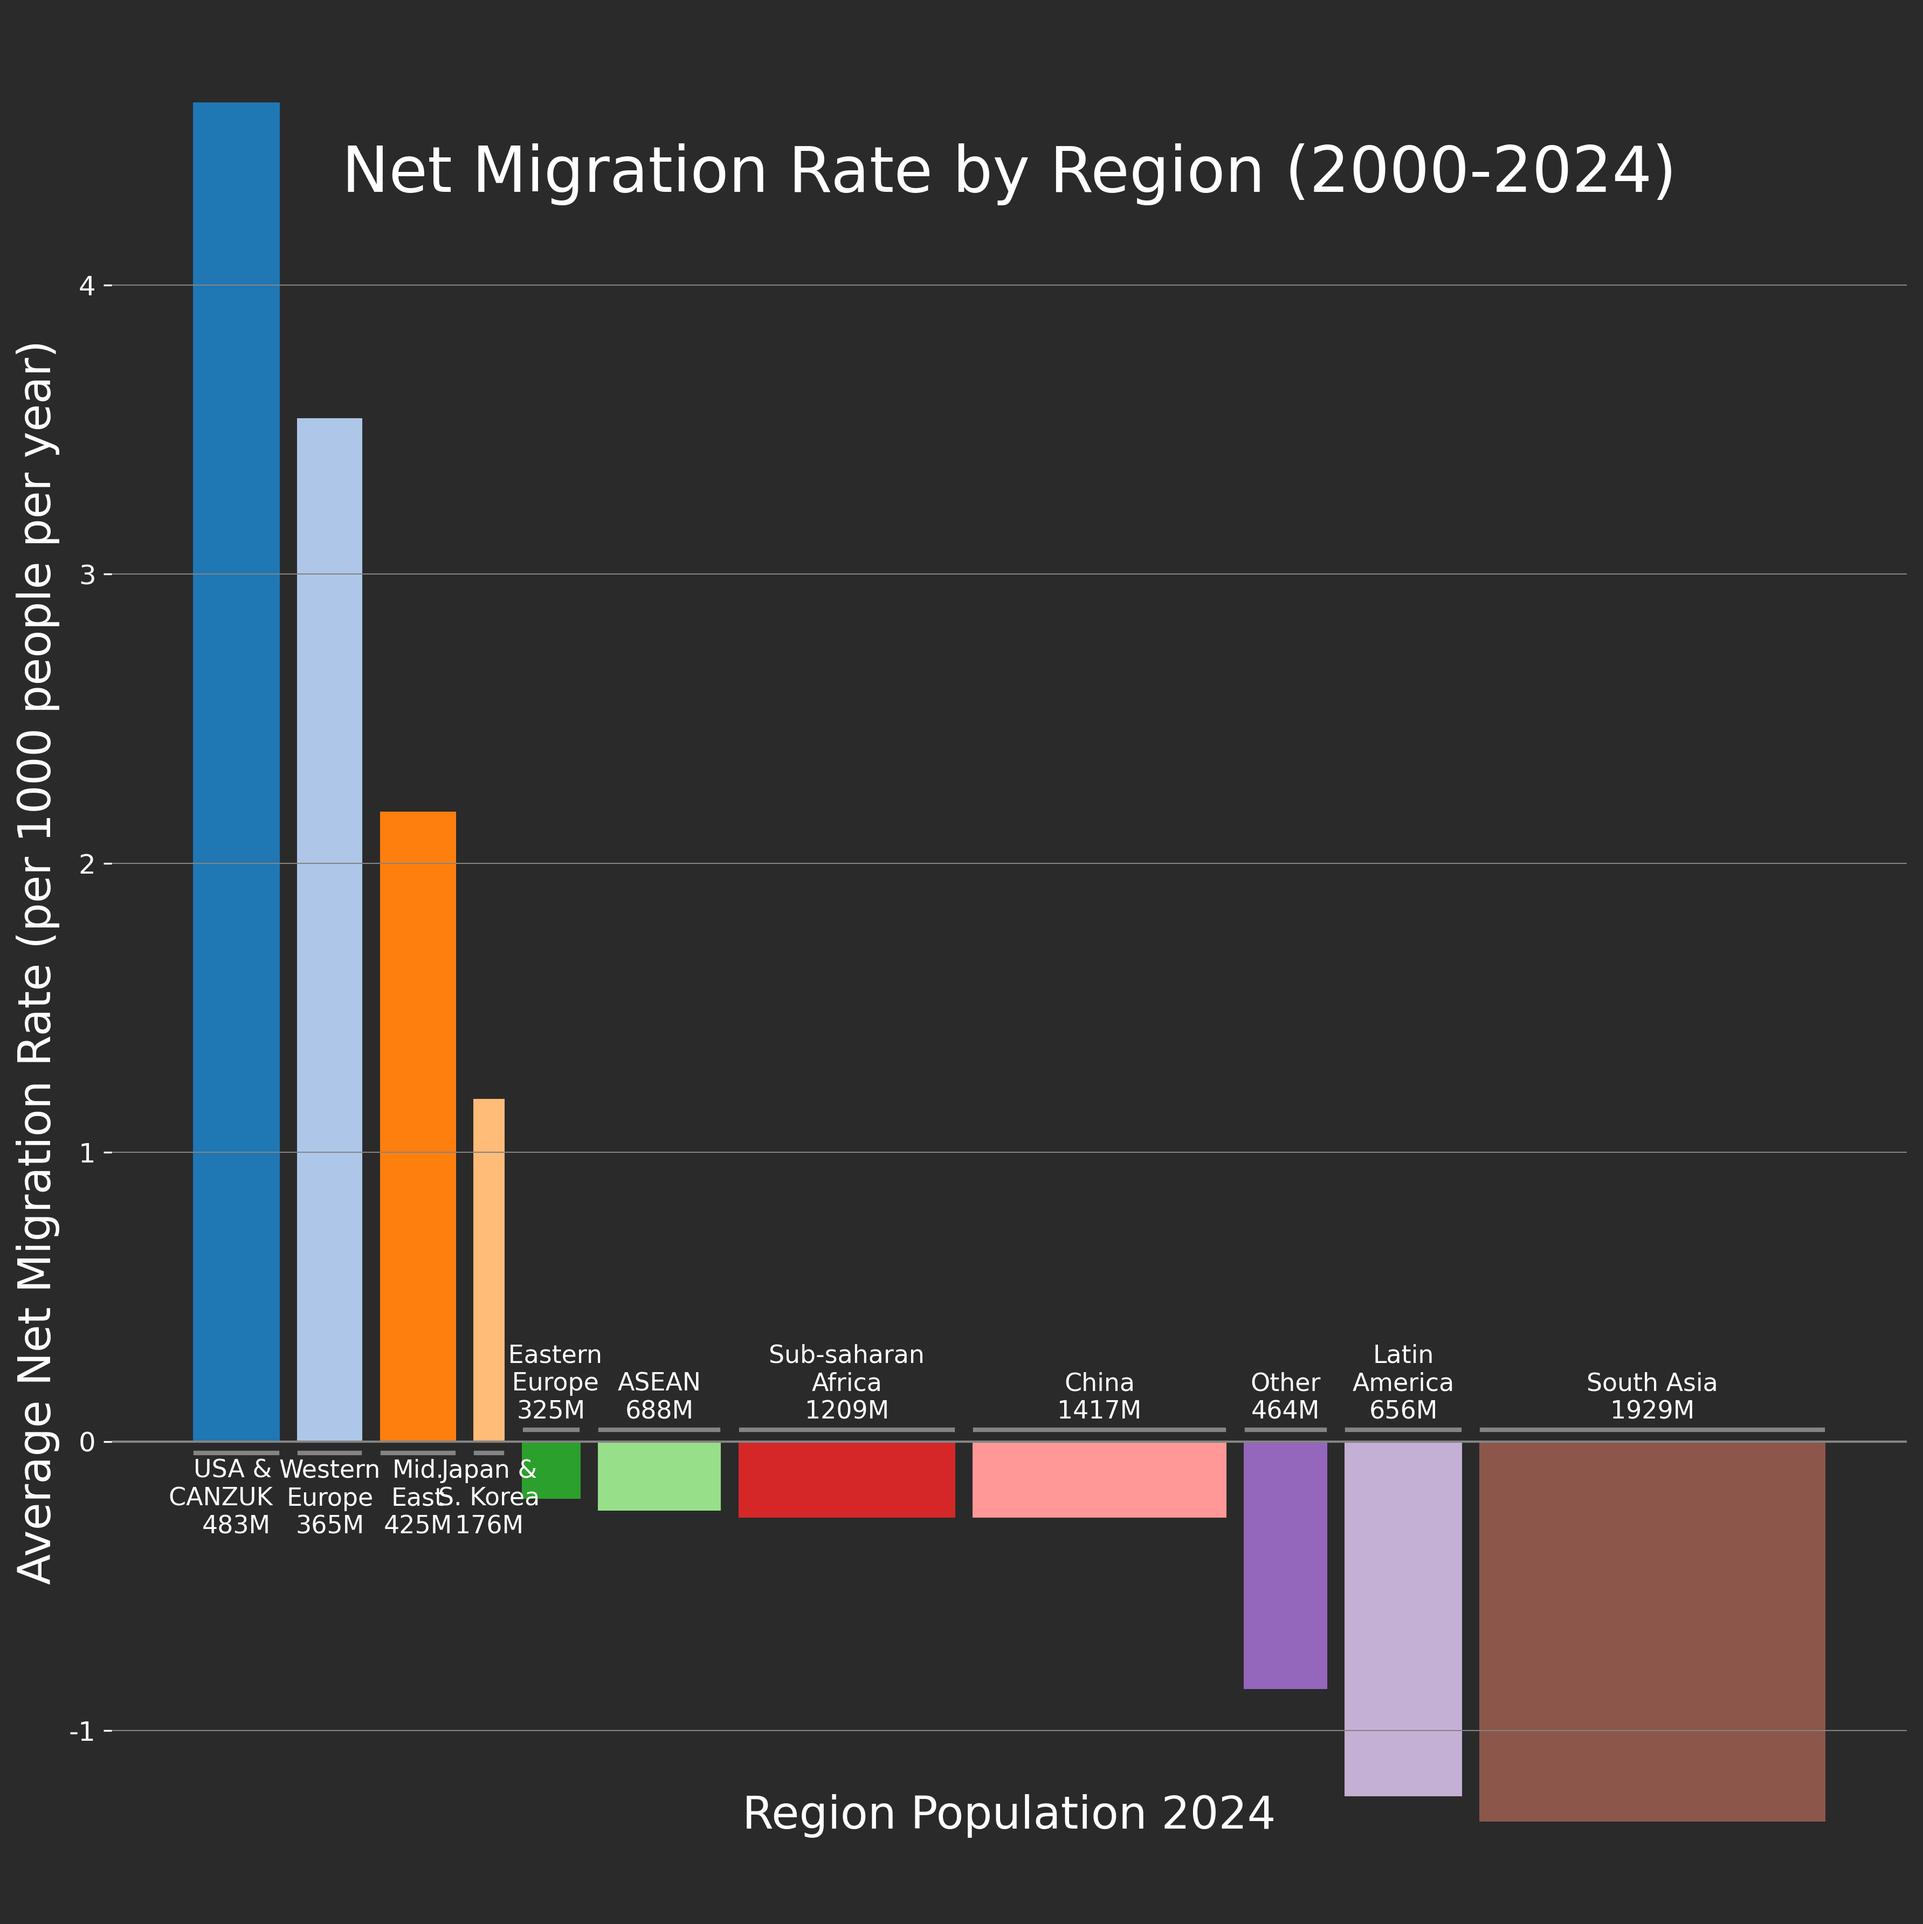
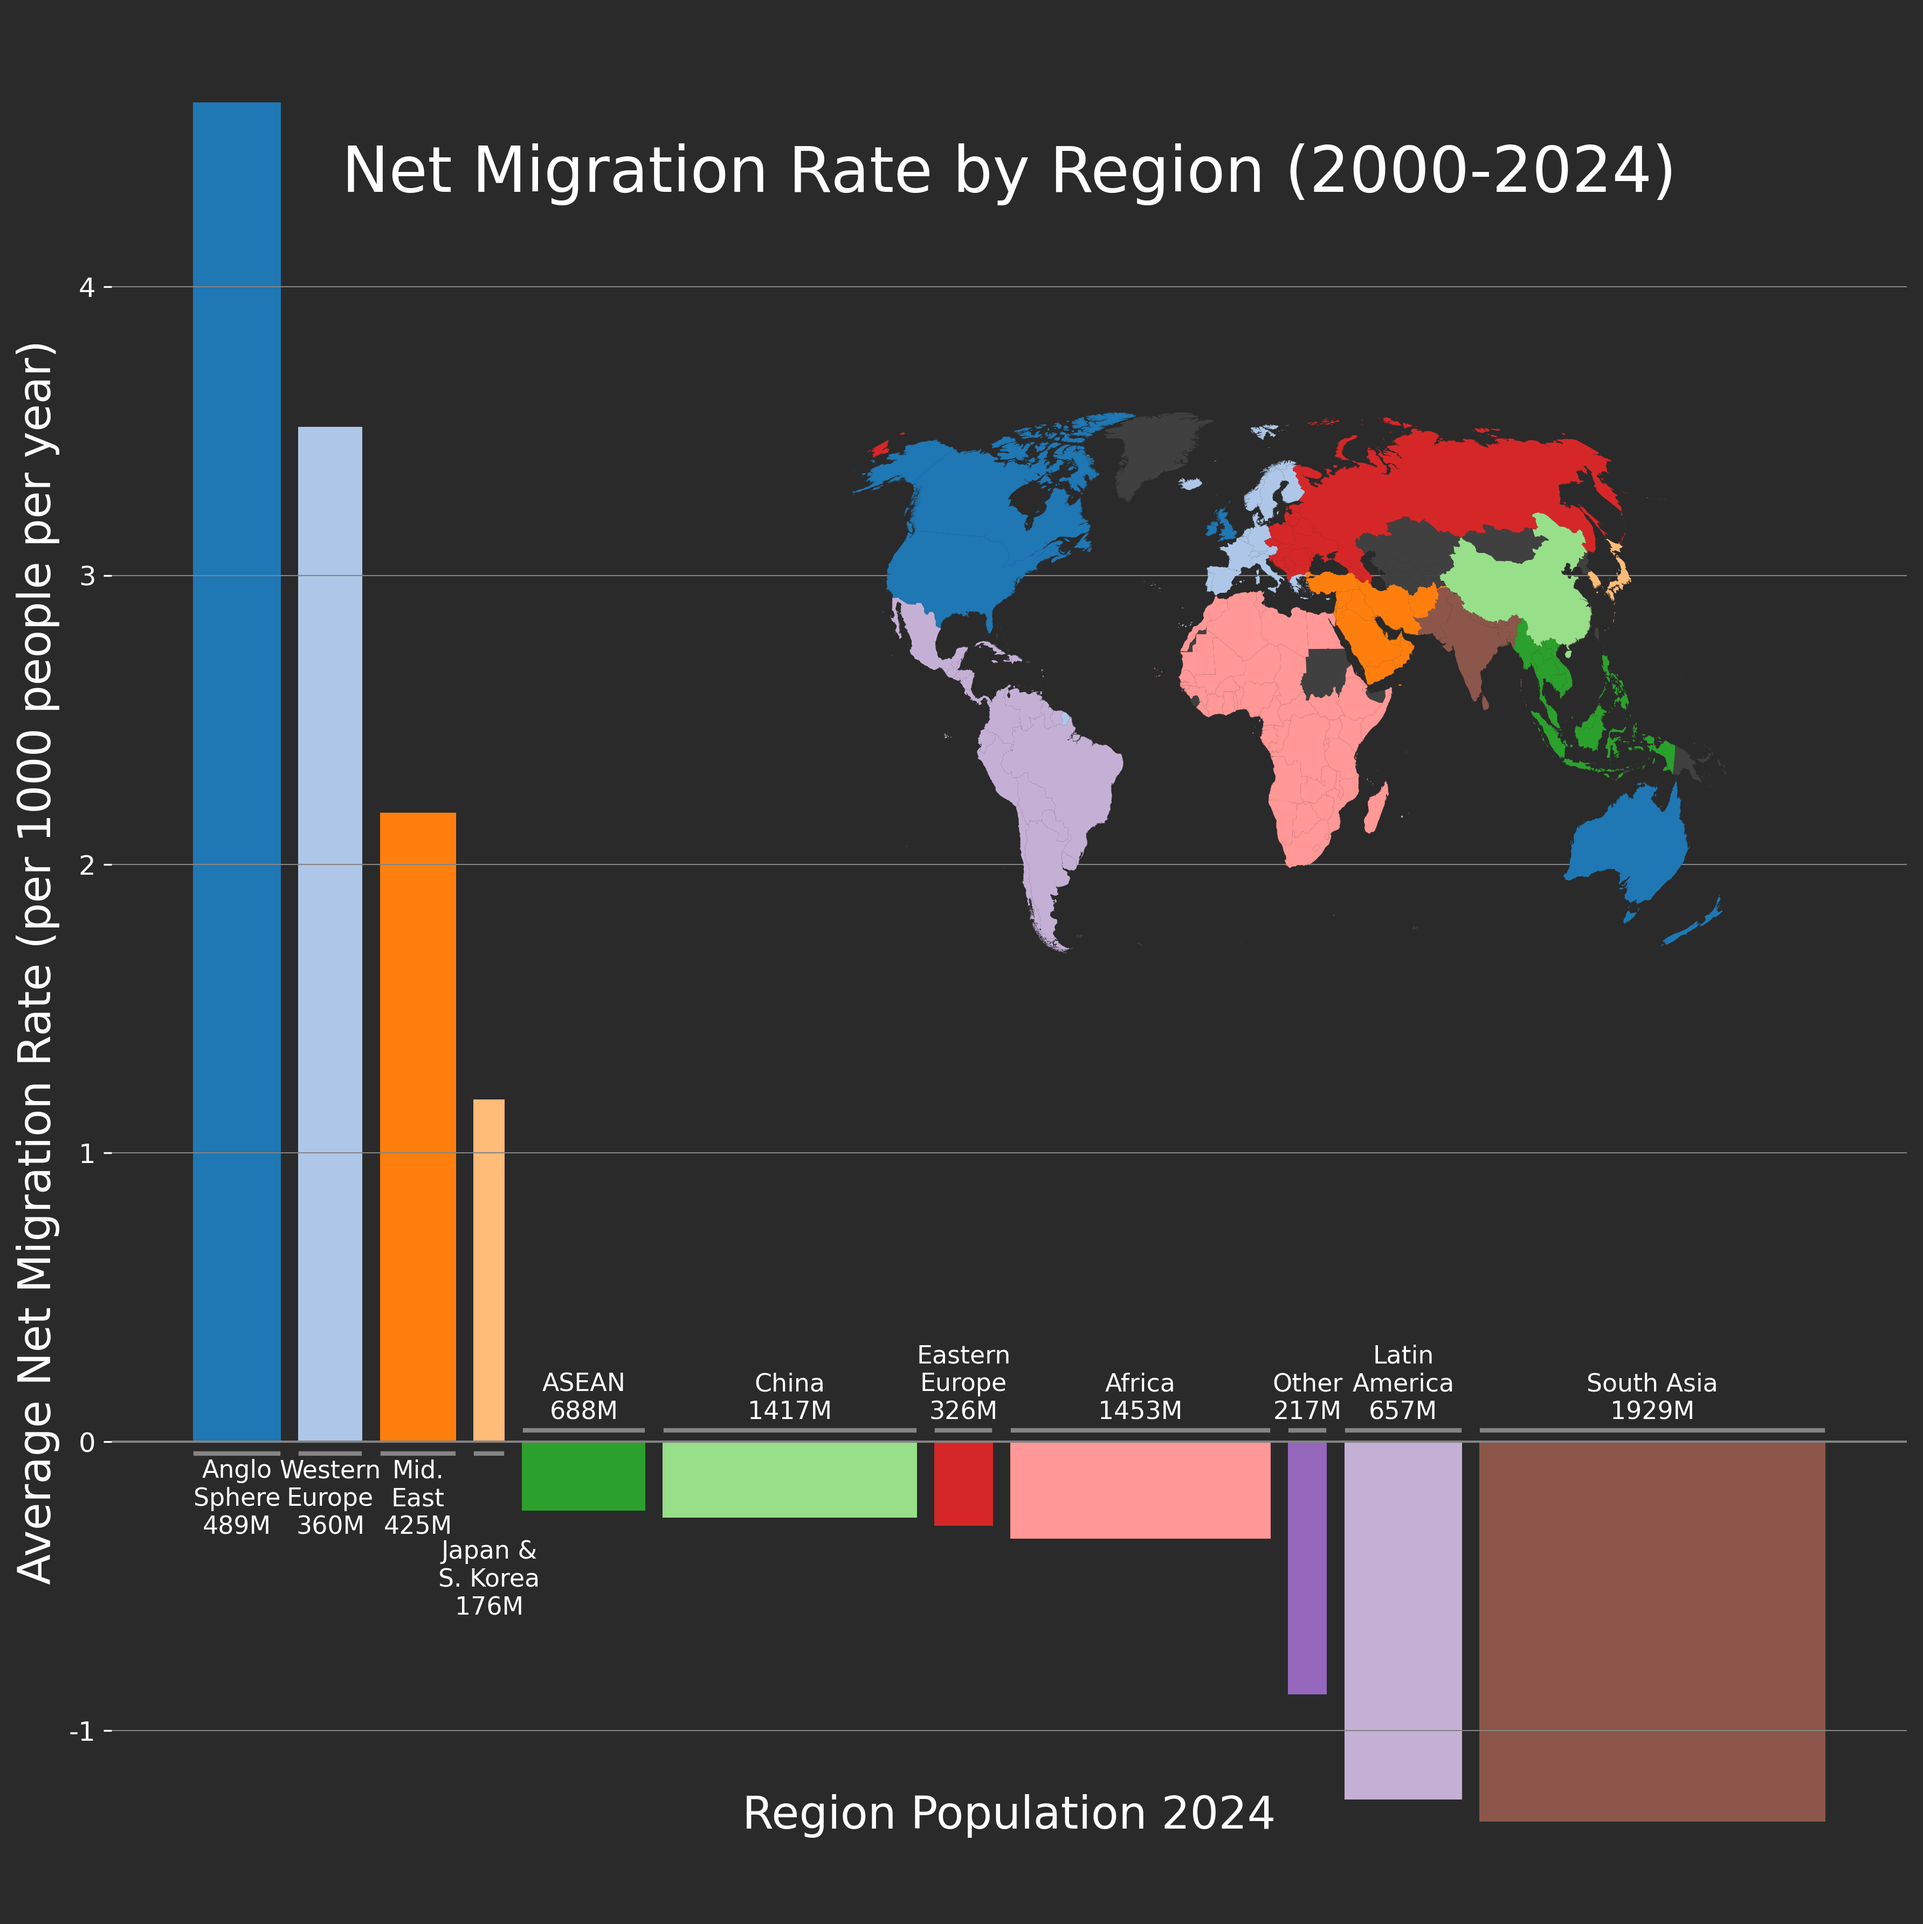
Added map to net migration.

diff --git a/scripts/NetMigration.py b/scripts/NetMigration.py
@@ -3,11 +3,15 @@ import pandas as pd
 import matplotlib.pyplot as plt
 import numpy as np
 import os
+import geopandas as gpd
+from mpl_toolkits.axes_grid1.inset_locator import inset_axes
 
-# Add this near your color constants
-from matplotlib.colors import ListedColormap
 REGION_COLORS = plt.cm.tab20.colors  # Use a colormap with enough distinct colors
 
+# World map configuration
+WORLD_URL = "https://raw.githubusercontent.com/datasets/geo-countries/master/data/countries.geojson"
+MAP_PROJECTION = "ESRI:54042"  # Robinson projection
+MAP_INSET_POSITION = (0.45, 0.5, 0.45, 0.30)  # (x, y, width, height) in figure coordinates
 
 # ==================== CONFIG ====================
 NUM_YEARS = 25  # Number of years to sum net migration
@@ -25,6 +29,11 @@ COLORS = {
     'positive': "#99C86B",  # Green for positive net migration
     'negative': "#FF6B6B",  # Red for negative net migration
 }
+
+# Manual country code corrections
+MANUALLY_ADD = [
+    ('France', 'FRA'), ('Norway', 'NOR'), ('Kosovo', 'XKX'),
+]
 
 # ==================== REGIONS ====================
 REGIONS = [
@@ -56,15 +65,6 @@ REGIONS = [
     {'name': 'Japan &\nS. Korea', 'countries': [
         'Korea, Rep.', 'Japan'
     ]},
-    # {'name': 'Sub-saharan\nAfrica', 'countries': [
-    #     'Nigeria', 'South Africa', 'Ethiopia', 'Kenya', 'Tanzania', 'Uganda', 'Ghana', 'Angola',
-    #     'Mozambique', "Cote d'Ivoire", 'Cameroon', 'Niger', 'Burkina Faso', 'Mali', 'Malawi',
-    #     'Zambia', 'Senegal', 'Zimbabwe', 'Rwanda', 'Benin', 'Chad', 'South Sudan', 'Togo',
-    #     'Sierra Leone', 'Liberia', 'Botswana', 'Namibia', 'Somalia, Fed. Rep.', 'Congo, Dem. Rep.', 'Congo, Rep.',
-    #     'Gabon', 'Guinea', 'Mauritania', 'Equatorial Guinea', 'Central African Republic', 'Lesotho',
-    #     'Eswatini', 'Djibouti', 'Eritrea', 'Gambia, The', 'Guinea-Bissau', 'Burundi', 'Cabo Verde',
-    #     'Comoros', 'Sao Tome and Principe', 'Seychelles'
-    # ]},
     {'name': 'West\nAfrica', 'countries': [
         'Nigeria', 'Ghana', "Cote d'Ivoire", 'Niger', 'Burkina Faso', 'Mali', 'Senegal',
         'Benin', 'Chad', 'Togo', 'Sierra Leone', 'Liberia', 'Guinea', 'Mauritania',
@@ -105,17 +105,18 @@ REGIONS = [
 SIMPLIFIED_REGIONS = [
     {'name': 'Western\nEurope', 'countries': [
         'Austria', 'Belgium', 'Cyprus', 'Denmark', 'Finland', 'France', 'Germany',
-        'Greece', 'Ireland', 'Italy', 'Luxembourg', 'Malta', 'Netherlands',
+        'Greece', 'Italy', 'Luxembourg', 'Malta', 'Netherlands',
         'Portugal', 'Spain', 'Sweden', 'Norway', 'Switzerland', 'Liechtenstein',
         'Iceland'
     ]},
-    {'name': ' Eastern\n Europe', 'countries': [
+    {'name': 'Eastern\nEurope', 'countries': [
         'Czechia', 'Latvia', 'Lithuania', 'Estonia', 'Hungary',
         'Poland', 'Romania', 'Slovak Republic', 'Slovenia', 'Bulgaria', 'Croatia',
         'Russian Federation', 'Ukraine', 'Belarus', 'Armenia', 'Georgia', 'Azerbaijan',
-        'Albania', 'Serbia', 'Bosnia and Herzegovina', 'North Macedonia', 'Montenegro', 'Moldova'
+        'Albania', 'Serbia', 'Bosnia and Herzegovina', 'North Macedonia', 'Montenegro',
+        'Moldova', 'Kosovo'
     ]},
-    {'name': 'USA & \nCANZUK    ', 'countries': ['United States', 'Canada', 'United Kingdom', 'Australia', 'New Zealand']},
+    {'name': 'Anglo\nSphere', 'countries': ['United States', 'Canada', 'United Kingdom', 'Australia', 'New Zealand', 'Ireland']},
     {'name': 'China', 'countries': ['China', 'Hong Kong SAR, China', 'Macao SAR, China']},
     {'name': 'South Asia', 'countries': [
         'India', 'Bangladesh', 'Bhutan', 'Nepal', 'Pakistan', 'Sri Lanka', 'Maldives'
@@ -127,14 +128,15 @@ SIMPLIFIED_REGIONS = [
     {'name': 'Japan &\nS. Korea', 'countries': [
         'Korea, Rep.', 'Japan'
     ]},
-    {'name': 'Sub-saharan\nAfrica', 'countries': [
+    {'name': 'Africa', 'countries': [
         'Nigeria', 'South Africa', 'Ethiopia', 'Kenya', 'Tanzania', 'Uganda', 'Ghana', 'Angola',
         'Mozambique', "Cote d'Ivoire", 'Cameroon', 'Niger', 'Burkina Faso', 'Mali', 'Malawi',
-        'Zambia', 'Senegal', 'Zimbabwe', 'Rwanda', 'Benin', 'Chad', 'South Sudan', 'Togo',
+        'Zambia', 'Senegal', 'Zimbabwe', 'Rwanda', 'Benin', 'Chad', 'South Sudan', 'Togo', 'Sudan'
         'Sierra Leone', 'Liberia', 'Botswana', 'Namibia', 'Somalia, Fed. Rep.', 'Congo, Dem. Rep.', 'Congo, Rep.',
         'Gabon', 'Guinea', 'Mauritania', 'Equatorial Guinea', 'Central African Republic', 'Lesotho',
         'Eswatini', 'Djibouti', 'Eritrea', 'Gambia, The', 'Guinea-Bissau', 'Burundi', 'Cabo Verde',
-        'Comoros', 'Sao Tome and Principe', 'Seychelles'
+        'Comoros', 'Sao Tome and Principe', 'Seychelles', 'Madagascar',
+        'Egypt, Arab Rep.', 'Libya', 'Morocco', 'Algeria', 'Tunisia'
     ]},
     {'name': 'Mid.\nEast', 'countries': [
         'Saudi Arabia', 'Iran, Islamic Rep.', 'Iraq', 'Israel', 'Jordan', 'Lebanon', 'Oman', 'Qatar',
@@ -145,7 +147,7 @@ SIMPLIFIED_REGIONS = [
         'Argentina', 'Bolivia', 'Brazil', 'Chile', 'Colombia', 'Costa Rica', 'Cuba',
         'Dominican Republic', 'Ecuador', 'El Salvador', 'Guatemala', 'Honduras',
         'Mexico', 'Nicaragua', 'Panama', 'Paraguay', 'Peru', 'Uruguay', 'Venezuela, RB',
-        'Haiti', 'Jamaica', 'Trinidad and Tobago', 'Belize'
+        'Haiti', 'Jamaica', 'Trinidad and Tobago', 'Belize', 'Guyana', 'Suriname'
     ]}
 ]
 
@@ -216,7 +218,122 @@ def aggregate_net_migration(df, regions):
     
     return df_sum
 
-def plot_net_migration(df):
+def create_region_country_mapping(regions):
+    """Create a dictionary mapping country names to region indices."""
+    country_to_region = {}
+    for i, region in enumerate(regions):
+        for country in region['countries']:
+            country_to_region[country] = i
+    return country_to_region
+
+def create_iso3_to_region_mapping(regions):
+    """Create a dictionary mapping ISO3 codes to region indices using wbdata metadata."""
+    # Get World Bank country metadata
+    countries = wbdata.get_countries()
+    
+    # Create name to ISO3 mapping
+    name_to_iso3 = {}
+    for c in countries:
+        name_to_iso3[c["name"]] = c["id"]
+    
+    # Create ISO3 to region mapping
+    iso3_to_region = {}
+    for i, region in enumerate(regions):
+        for country_name in region['countries']:
+            if country_name in name_to_iso3:
+                iso3_to_region[name_to_iso3[country_name]] = i
+    
+    return iso3_to_region
+
+def get_world_map_data(regions, projection_epsg):
+    """Load world map and assign region colors."""
+    world = gpd.read_file(WORLD_URL)
+    
+    # Add manual corrections
+    for (name, code) in MANUALLY_ADD:
+        world.loc[world['name'] == name, 'ISO3166-1-Alpha-3'] = code
+    
+    # Create mapping from ISO3 to region index
+    iso3_to_region = create_iso3_to_region_mapping(regions)
+    
+    # Map ISO3 codes to region indices
+    world['RegionIndex'] = -1  # Default for countries not in any region
+    
+    # Use ISO3 codes for matching
+    if 'ISO3166-1-Alpha-3' in world.columns:
+        for iso3, region_idx in iso3_to_region.items():
+            world.loc[world['ISO3166-1-Alpha-3'] == iso3, 'RegionIndex'] = region_idx
+    
+    # Reproject to desired projection
+    world = world.to_crs(projection_epsg)
+    
+    return world
+
+def add_world_map_inset(fig, ax, df_sorted, regions, position=MAP_INSET_POSITION):
+    """Add a world map inset showing regions in their assigned colors."""
+    # Create inset axis
+    map_ax = inset_axes(
+        ax,
+        width="100%",
+        height="100%",
+        bbox_to_anchor=position,
+        bbox_transform=fig.transFigure,
+    )
+    
+    # Load and prepare world map data
+    world_data = get_world_map_data(regions, MAP_PROJECTION)
+    
+    # Create a mapping from region name to its sorted position (and thus color)
+    region_to_color_idx = {}
+    for i, (_, row) in enumerate(df_sorted.iterrows()):
+        region_to_color_idx[row['Region']] = i
+    
+    # Create a mapping from original region index to color index
+    region_idx_to_color = {}
+    for i, region in enumerate(regions):
+        region_name = region['name']
+        if region_name in region_to_color_idx:
+            region_idx_to_color[i] = region_to_color_idx[region_name]
+    
+    # Plot each region with its corresponding color
+    for region_idx in range(len(regions)):
+        region_countries = world_data[world_data['RegionIndex'] == region_idx]
+        if not region_countries.empty and region_idx in region_idx_to_color:
+            color_idx = region_idx_to_color[region_idx]
+            region_countries.plot(
+                ax=map_ax,
+                color=REGION_COLORS[color_idx % len(REGION_COLORS)],
+                linewidth=0,  # No borders between countries
+                edgecolor='none'
+            )
+    
+    # Plot countries not in any region in gray
+    other_countries = world_data[world_data['RegionIndex'] == -1]
+    if not other_countries.empty:
+        other_countries.plot(
+            ax=map_ax,
+            color='#404040',
+            linewidth=0,
+            edgecolor='none'
+        )
+    
+    # Style the map
+    map_ax.axis('off')
+    map_ax.set_xlim(-11000000, 14300000)
+    map_ax.set_ylim(-6500000, 9500000)
+    
+    # Add white border around the inset
+    for spine in map_ax.spines.values():
+        spine.set_visible(True)
+        spine.set_color('white')
+        spine.set_linewidth(2)
+    
+    # Ensure the inset is rendered on top
+    map_ax.set_zorder(1000)
+    
+    return map_ax
+
+def plot_net_migration(df, regions):
     """
     Vertical bars, width scaled by population, labels above/below bars.
     """
@@ -286,8 +403,8 @@ def plot_net_migration(df):
             label_y = line_y + text_gap
             va = "bottom"
             
-        # if(row['Region'] == 'Japan &\nS. Korea'):
-        #     label_y = line_y - 0.3
+        if(row['Region'] == 'Japan &\nS. Korea'):
+            label_y = line_y - 0.3
         
         # Width line
         ax.plot(
@@ -329,6 +446,10 @@ def plot_net_migration(df):
     for spine in ax.spines.values():
         spine.set_visible(False)
 
+    # ---- Add world map inset (pass the sorted dataframe) ----
+    df_for_map = df.copy()  # df is already sorted at this point
+    add_world_map_inset(fig, ax, df_for_map, regions, position=MAP_INSET_POSITION)
+
     plt.tight_layout()
     if (MOBILE):
         plt.savefig(f"visualizations/NetMigrationRate_{NUM_YEARS}Years_MOBILE.png", dpi=300, bbox_inches='tight')
@@ -348,9 +469,11 @@ if __name__ == "__main__":
     else:
         df_agg = aggregate_net_migration(df, REGIONS)
         
-    
     print('\nRegion Summary:')
     print(df_agg[['Region', 'Population', 'NetMigration', 'NetMigrationRate']].to_string())
     
     print('\nRendering...')
-    plot_net_migration(df_agg)
+    if (MOBILE):
+        plot_net_migration(df_agg, SIMPLIFIED_REGIONS)
+    else:
+        plot_net_migration(df_agg, REGIONS)
